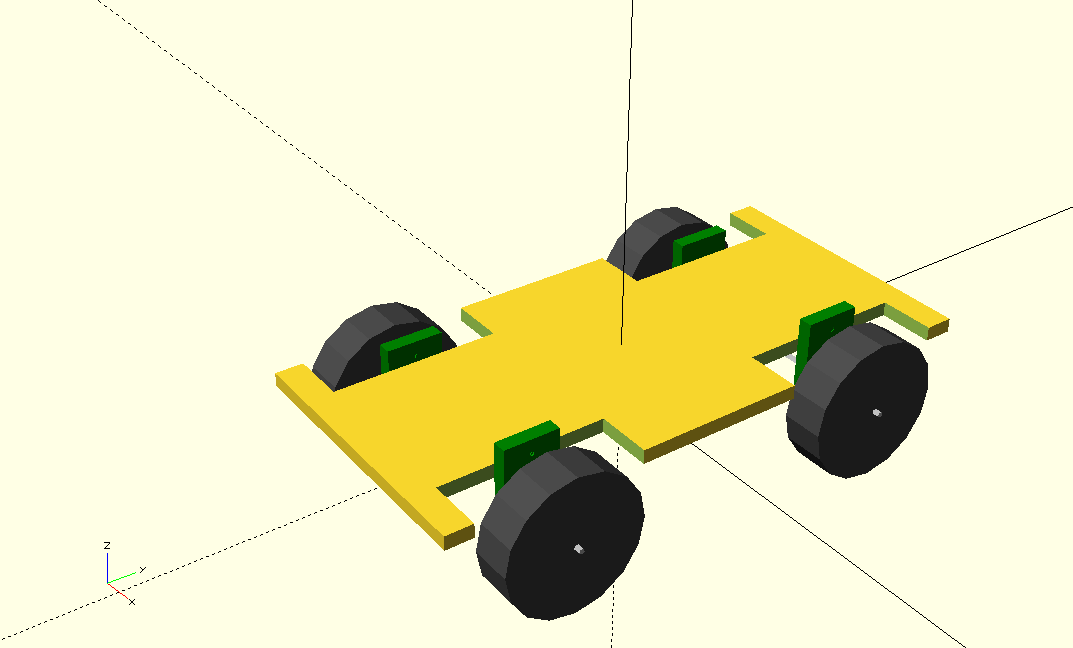
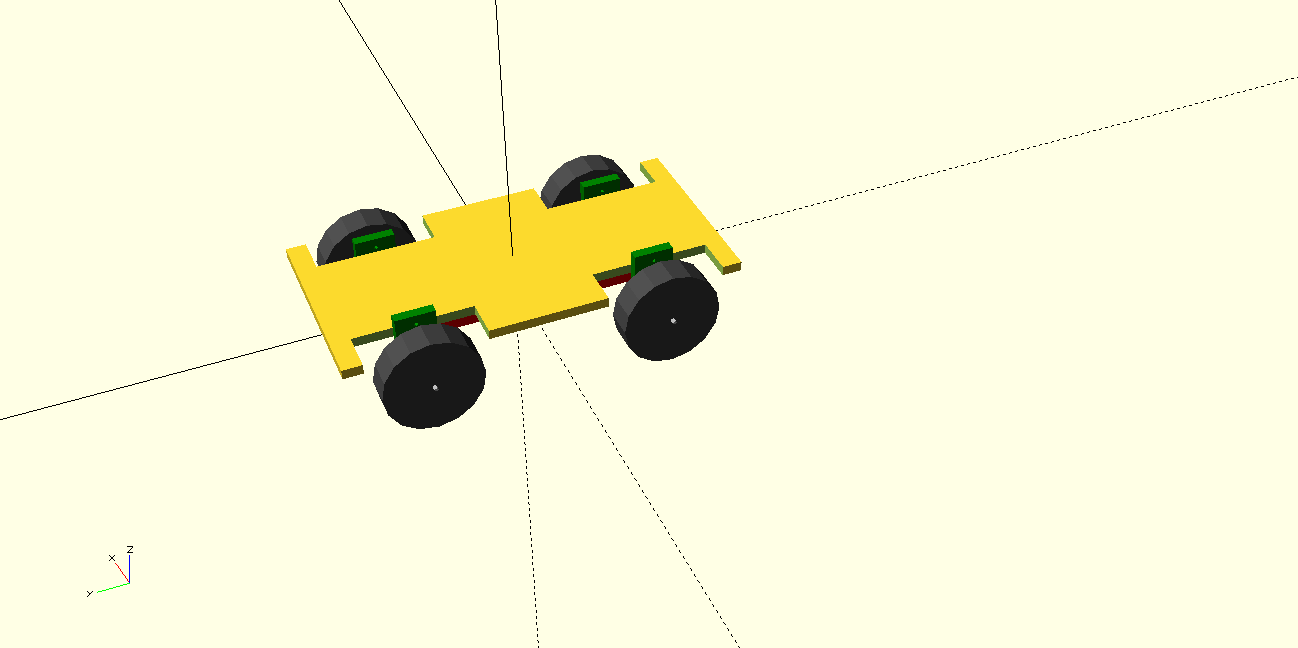
增加电池雷达

Changed region(s): [[0.2153, 0.216, 0.8919, 0.9568], [0.0923, 0.8642, 0.123, 0.8951]]

diff --git a/README.md b/README.md
@@ -1,2 +1,13 @@
+
+
+### 部件
+-  车体
+-  车轴
+-  脚手架
+-  电池盒子 
+-  微控制器
+-  马达
+-  电池
+
 预览图
 ![预览图](./image/preview.png "3d预览图")
